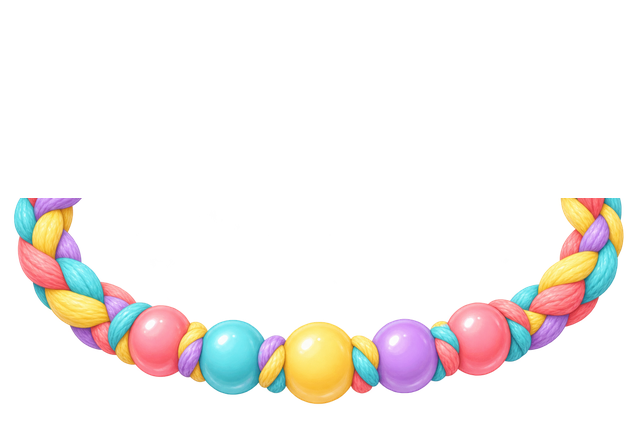
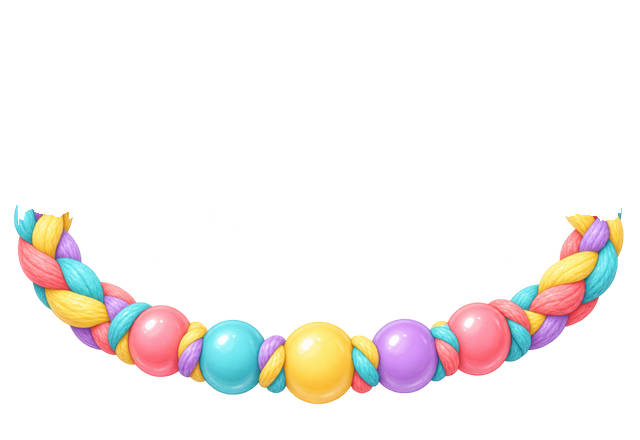
Test Hub: refresh test-apps/nail-salon-next/,  — staged only, no service worker
Deployed by scripts/deploy-testhub.sh: source and destination checkouts verified
by scripts/assert-checkout.sh, staged tree proven worker-free, scope audited to
test-apps/ only. Production untouched.

Changed region(s): [[0.875, 0.4432, 0.9688, 0.5023], [0.0312, 0.4432, 0.125, 0.5023]]

diff --git a/test-apps/nail-salon-next/app.js b/test-apps/nail-salon-next/app.js
@@ -138,13 +138,20 @@
     if(!handAnchors)return;
     const specs={
       'heart-ring':{anchor:'ringFingerBase',heightAnchor:'ringFingerBase',heightRatio:440/640,offsetY:0},
+      'flower-ring':{anchor:'ringFingerBase',heightAnchor:'ringFingerBase',heightRatio:440/640,offsetY:0},
+      'star-ring':{anchor:'ringFingerBase',heightAnchor:'ringFingerBase',heightRatio:440/640,offsetY:0},
+      'rainbow-band-ring':{anchor:'ringFingerBase',heightAnchor:'ringFingerBase',heightRatio:440/640,offsetY:0},
+      'gem-solitaire-ring':{anchor:'ringFingerBase',heightAnchor:'ringFingerBase',heightRatio:440/640,offsetY:0},
       'pearl-bracelet':{anchor:'wrist',heightAnchor:'wrist',heightRatio:440/640,offsetY:0},
       'friendship-thread-bracelet':{anchor:'wrist',heightAnchor:'wrist',heightRatio:440/640,offsetY:0},
+      'moon-star-charm-bracelet':{anchor:'wrist',heightAnchor:'wrist',heightRatio:440/640,offsetY:0},
+      'rainbow-bangle-bracelet':{anchor:'wrist',heightAnchor:'wrist',heightRatio:440/640,offsetY:0},
+      'daisy-chain-bracelet':{anchor:'wrist',heightAnchor:'wrist',heightRatio:440/640,offsetY:0},
       'pink-bow':{anchor:'upperWrist',heightAnchor:'wrist',heightRatio:400/640,offsetY:0}
     };
     Object.entries(specs).forEach(([id,spec])=>{
       if(!state.accessories.includes(id))return;
-      const a=handAnchors.anchors[spec.anchor].svg,coverage=accessoryMetrics.wrapCoverage[id],w=a.width/coverage.visibleSpanFraction,h=handAnchors.anchors[spec.heightAnchor].svg.width*spec.heightRatio,x=a.centreX-w/2,bandY=a.row+spec.offsetY,y=bandY-h*.43;
+      const a=handAnchors.anchors[spec.anchor].svg,coverage=accessoryMetrics.wrapCoverage[id],w=a.width/coverage.visibleSpanFraction,h=handAnchors.anchors[spec.heightAnchor].svg.width*spec.heightRatio,curved=coverage.splitRow!=null,x=curved?a.left-coverage.visibleLeft/640*w:a.centreX-w/2,bandY=a.row+spec.offsetY,y=bandY-h*(curved?coverage.splitRow/440:.43);
       const transform=`rotate(${a.bandAngleDegrees} ${a.centreX} ${bandY})`;
       const attrs={class:'worn-accessory',x,y,width:w,height:h,preserveAspectRatio:'none',transform,'data-accessory':id,'data-left':a.left,'data-right':a.right};
       accessoryBackLayer.append(el('image',{...attrs,href:`./assets/accessories/${id}-back.webp`,mask:'url(#handSkinMask)'}));
@@ -266,7 +273,10 @@
       [
         ['heart-ring','accessory-heart-ring'],['pink-bow','accessory-bow'],
         ['pearl-bracelet','accessory-pearl-bracelet'],
-        ['friendship-thread-bracelet','accessory-friendship-thread-bracelet']
+        ['friendship-thread-bracelet','accessory-friendship-thread-bracelet'],
+        ['flower-ring','accessory-flower-ring'],['star-ring','accessory-star-ring'],
+        ['rainbow-band-ring','accessory-rainbow-band-ring'],['gem-solitaire-ring','accessory-gem-solitaire-ring'],
+        ['moon-star-charm-bracelet','accessory-moon-star-charm-bracelet']
       ].forEach(([id,art])=>choice(`<img src="./assets/icons/${art}.webp" alt="">`,()=>S.setAccessories(state,id),state.accessories.includes(id),id));
     }
   }
